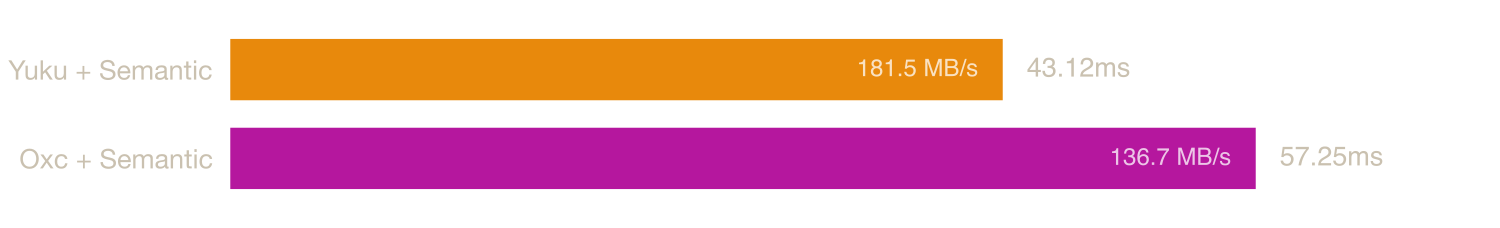
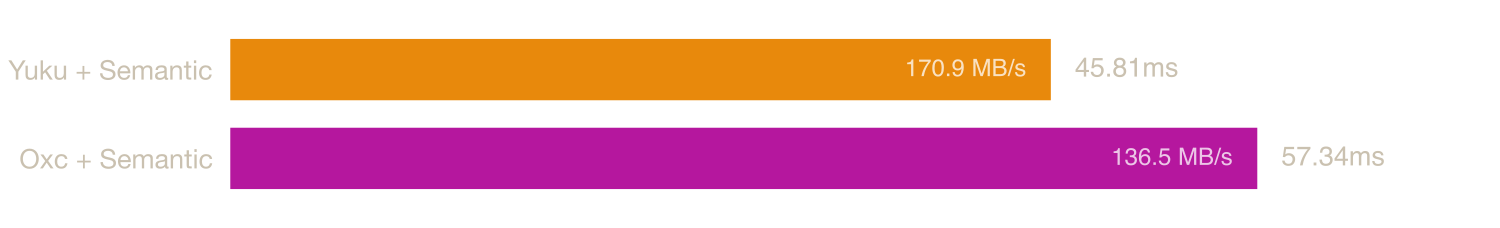
benchmark results with yuku perf/lexer-fast-scan (PR #196)
yuku dependency switched to hax:yuku#perf/lexer-fast-scan

Changed region(s): [[0.552, 0.1535, 0.7973, 0.4605], [0.736, 0.6447, 0.92, 0.7368]]

diff --git a/README.md b/README.md
@@ -41,9 +41,9 @@ An extensible Rust-based platform for compiling and bundling JavaScript and Type
 
 | Parser | Median | Min | p99 | Relative |
 |--------|--------|-----|-----|----------|
-| Yuku | 19.06 ms | 18.46 ms | 20.37 ms | 1.00× |
-| Oxc | 25.52 ms | 24.88 ms | 27.80 ms | 1.34× |
-| SWC | 44.59 ms | 43.71 ms | 50.96 ms | 2.34× |
+| Yuku | 20.71 ms | 20.44 ms | 21.87 ms | 1.00× |
+| Oxc | 25.45 ms | 25.07 ms | 28.52 ms | 1.23× |
+| SWC | 45.01 ms | 44.20 ms | 59.39 ms | 2.17× |
 
 ### [checker.ts](https://raw.githubusercontent.com/yuku-toolchain/parser-benchmark-files/refs/heads/main/checker.ts)
 
@@ -53,9 +53,9 @@ An extensible Rust-based platform for compiling and bundling JavaScript and Type
 
 | Parser | Median | Min | p99 | Relative |
 |--------|--------|-----|-----|----------|
-| Yuku | 6.84 ms | 6.45 ms | 7.11 ms | 1.00× |
-| Oxc | 8.59 ms | 7.95 ms | 9.43 ms | 1.26× |
-| SWC | 14.73 ms | 14.40 ms | 15.07 ms | 2.15× |
+| Yuku | 6.87 ms | 6.72 ms | 7.20 ms | 1.00× |
+| Oxc | 8.08 ms | 7.96 ms | 8.51 ms | 1.18× |
+| SWC | 14.81 ms | 14.52 ms | 15.36 ms | 2.16× |
 
 ### [lib.dom.d.ts](https://raw.githubusercontent.com/yuku-toolchain/parser-benchmark-files/refs/heads/main/lib.dom.d.ts)
 
@@ -65,9 +65,9 @@ An extensible Rust-based platform for compiling and bundling JavaScript and Type
 
 | Parser | Median | Min | p99 | Relative |
 |--------|--------|-----|-----|----------|
-| Oxc | 2.39 ms | 2.33 ms | 3.04 ms | 1.00× |
-| Yuku | 3.33 ms | 3.09 ms | 3.81 ms | 1.39× |
-| SWC | 5.05 ms | 4.83 ms | 5.96 ms | 2.11× |
+| Oxc | 2.38 ms | 2.32 ms | 2.61 ms | 1.00× |
+| Yuku | 2.41 ms | 2.37 ms | 2.58 ms | 1.01× |
+| SWC | 5.08 ms | 4.79 ms | 5.49 ms | 2.13× |
 
 ### [react.js](https://raw.githubusercontent.com/yuku-toolchain/parser-benchmark-files/refs/heads/main/react.js)
 
@@ -77,9 +77,9 @@ An extensible Rust-based platform for compiling and bundling JavaScript and Type
 
 | Parser | Median | Min | p99 | Relative |
 |--------|--------|-----|-----|----------|
-| Yuku | 0.12 ms | 0.11 ms | 0.14 ms | 1.00× |
-| Oxc | 0.17 ms | 0.16 ms | 0.24 ms | 1.43× |
-| SWC | 0.30 ms | 0.29 ms | 1.70 ms | 2.53× |
+| Yuku | 0.12 ms | 0.12 ms | 0.15 ms | 1.00× |
+| Oxc | 0.16 ms | 0.16 ms | 0.19 ms | 1.37× |
+| SWC | 0.30 ms | 0.28 ms | 0.36 ms | 2.50× |
 
 ## Semantic
 
@@ -95,8 +95,8 @@ The benchmarks below measure parsing followed by this additional pass, which bui
 
 | Parser | Median | Min | p99 | Relative |
 |--------|--------|-----|-----|----------|
-| Yuku + Semantic | 43.12 ms | 41.78 ms | 58.15 ms | 1.00× |
-| Oxc + Semantic | 57.25 ms | 55.66 ms | 61.20 ms | 1.33× |
+| Yuku + Semantic | 45.81 ms | 45.35 ms | 48.45 ms | 1.00× |
+| Oxc + Semantic | 57.34 ms | 55.83 ms | 61.67 ms | 1.25× |
 
 ### [checker.ts](https://raw.githubusercontent.com/yuku-toolchain/parser-benchmark-files/refs/heads/main/checker.ts)
 
@@ -104,8 +104,8 @@ The benchmarks below measure parsing followed by this additional pass, which bui
 
 | Parser | Median | Min | p99 | Relative |
 |--------|--------|-----|-----|----------|
-| Yuku + Semantic | 15.29 ms | 14.65 ms | 17.15 ms | 1.00× |
-| Oxc + Semantic | 19.03 ms | 18.72 ms | 20.53 ms | 1.24× |
+| Yuku + Semantic | 16.04 ms | 15.80 ms | 16.44 ms | 1.00× |
+| Oxc + Semantic | 19.14 ms | 18.79 ms | 20.40 ms | 1.19× |
 
 ### [lib.dom.d.ts](https://raw.githubusercontent.com/yuku-toolchain/parser-benchmark-files/refs/heads/main/lib.dom.d.ts)
 
@@ -113,8 +113,8 @@ The benchmarks below measure parsing followed by this additional pass, which bui
 
 | Parser | Median | Min | p99 | Relative |
 |--------|--------|-----|-----|----------|
-| Oxc + Semantic | 4.83 ms | 4.64 ms | 6.44 ms | 1.00× |
-| Yuku + Semantic | 5.38 ms | 5.16 ms | 5.91 ms | 1.11× |
+| Yuku + Semantic | 4.52 ms | 4.35 ms | 4.85 ms | 1.00× |
+| Oxc + Semantic | 4.82 ms | 4.66 ms | 5.22 ms | 1.07× |
 
 ### [react.js](https://raw.githubusercontent.com/yuku-toolchain/parser-benchmark-files/refs/heads/main/react.js)
 
@@ -122,8 +122,8 @@ The benchmarks below measure parsing followed by this additional pass, which bui
 
 | Parser | Median | Min | p99 | Relative |
 |--------|--------|-----|-----|----------|
-| Yuku + Semantic | 0.27 ms | 0.26 ms | 0.31 ms | 1.00× |
-| Oxc + Semantic | 0.35 ms | 0.34 ms | 0.40 ms | 1.30× |
+| Yuku + Semantic | 0.27 ms | 0.27 ms | 0.32 ms | 1.00× |
+| Oxc + Semantic | 0.35 ms | 0.34 ms | 0.40 ms | 1.29× |
 
 ## Run Benchmarks
 
